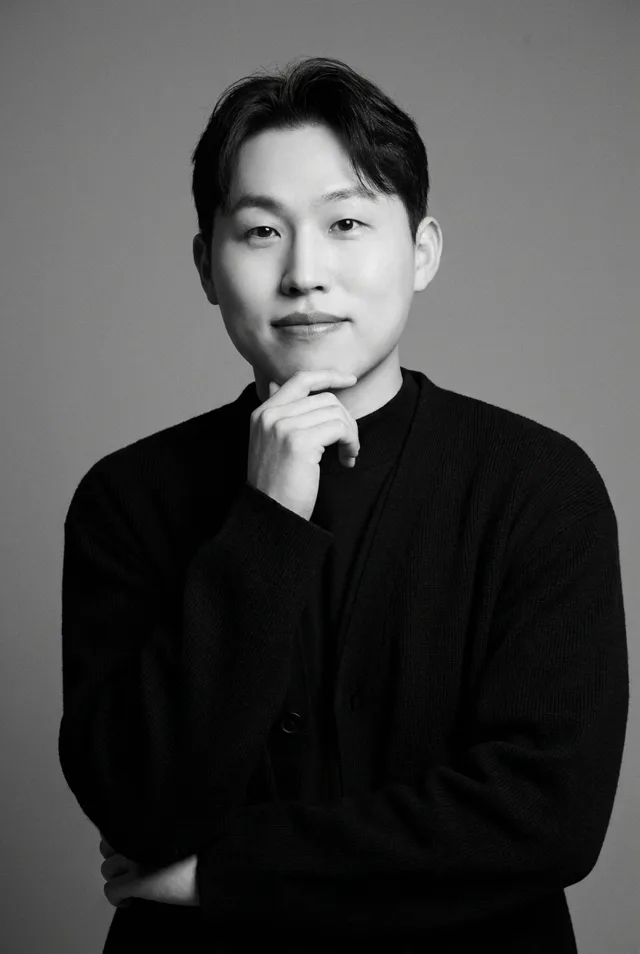
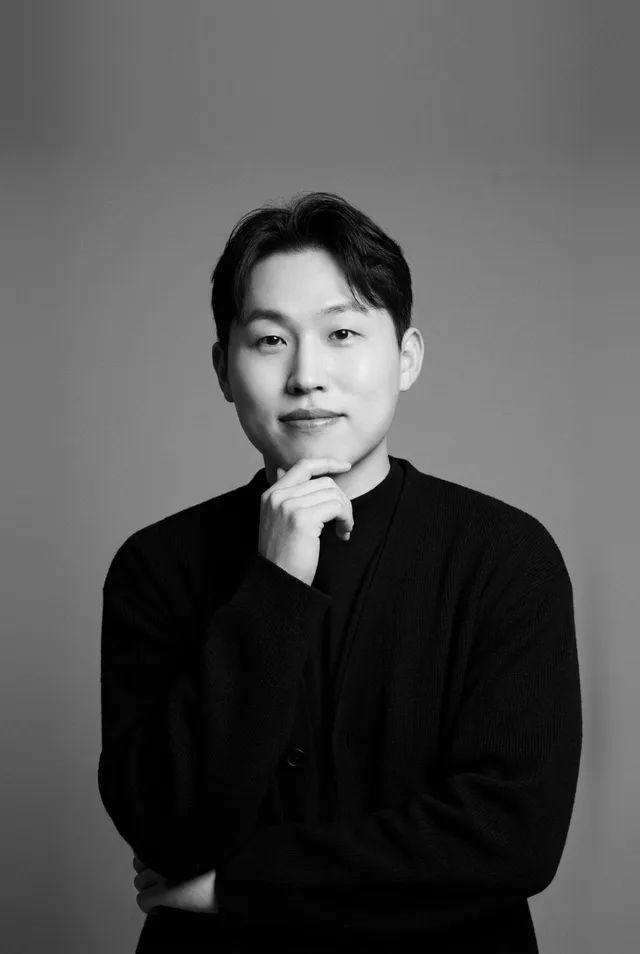
Team page: reorder cards, add roles, smaller CEO portrait, add playbook timeline
Claude-Session: https://claude.ai/code/session_01LdgwYFW44Z9Jz33BD46AYh

Changed region(s): [[0.0938, 0.0608, 1.0, 1.0], [0.0312, 0.1216, 0.0938, 0.152]]

diff --git a/client/src/pages/InformationPages.tsx b/client/src/pages/InformationPages.tsx
@@ -240,14 +240,43 @@ function CompanyPage({ lang }: { lang: Language }) {
   </>;
 }
 
-/* 왼쪽부터 이영균, 전세영, 이승훈(가운데), 이영훈, 장시아 */
+/* 왼쪽부터 이영균, 이영훈, 이승훈(가운데), 전세영, 장시아 */
 const TEAM = [
-  { ko: "이영균", en: "Younggyun Lee", img: "lee-younggyun" },
-  { ko: "전세영", en: "Seyoung Jeon", img: "jeon-seyoung" },
-  { ko: "이승훈", en: "Seunghoon Lee", img: "lee-seunghoon", role: { ko: "설립자", en: "Founder" } },
-  { ko: "이영훈", en: "Younghoon Lee", img: "lee-younghoon" },
-  { ko: "장시아", en: "Sia Jang", img: "jang-sia" },
+  { ko: "이영균", en: "Younggyun Lee", img: "lee-younggyun", role: "Software Engineer" },
+  { ko: "이영훈", en: "Younghoon Lee", img: "lee-younghoon", role: "CTO" },
+  { ko: "이승훈", en: "Seunghoon Lee", img: "lee-seunghoon", role: "CEO" },
+  { ko: "전세영", en: "Seyoung Jeon", img: "jeon-seyoung", role: "AI Engineer" },
+  { ko: "장시아", en: "Sia Jang", img: "jang-sia", role: "Product Designer" },
 ];
+
+const PLAYBOOK = [
+  { title: { ko: "현장 조사", en: "Site survey" }, month: { ko: "1개월차", en: "Month 1" }, text: { ko: "센터 도면과 설비 목록을 받고 현장을 함께 봅니다. 측정 범위, 비교 기준, 성공 기준을 문서로 합의합니다.", en: "We review floor plans and equipment lists and walk the site together. Scope, baseline and success criteria are agreed in writing." }, out: { ko: "측정 계획서, 평가 기준", en: "Measurement plan, evaluation criteria" } },
+  { title: { ko: "진단 측정", en: "Diagnostic measurement" }, month: { ko: "2개월차", en: "Month 2" }, text: { ko: "로봇이 같은 경로를 반복 측정해 현재 상태를 기록합니다. 운영 중인 설정은 건드리지 않습니다.", en: "The robot measures the same route repeatedly to record the current state. Live settings stay untouched." }, out: { ko: "위치별 온도, 기류 지도와 우선 진단 대상", en: "Temperature by location, airflow map and priority targets" } },
+  { title: { ko: "원인 분석과 개선안", en: "Root cause and options" }, month: { ko: "3개월차", en: "Month 3" }, text: { ko: "측정값으로 트윈을 맞추고 열유동 해석으로 원인을 가립니다. 조치 후보를 해석으로 먼저 비교해 위험이 낮은 것부터 제안합니다.", en: "We calibrate the twin with measurements and find causes through thermal-flow analysis. Options are compared in simulation first, lowest risk first." }, out: { ko: "진단 근거, 조치 후보별 예상 효과", en: "Diagnostic evidence, expected effect per option" } },
+  { title: { ko: "적용과 전후 비교", en: "Apply and compare" }, month: { ko: "4개월차", en: "Month 4" }, text: { ko: "운영팀과 합의한 범위만 바꿉니다. 바꾼 뒤 같은 경로로 다시 재서 전후를 비교합니다.", en: "Only the scope agreed with the operations team changes. We re-measure the same route to compare before and after." }, out: { ko: "냉각 상태와 전력 변화 검증 결과", en: "Verified cooling state and power change" } },
+  { title: { ko: "검증 보고와 확산", en: "Report and scale" }, month: { ko: "5개월차", en: "Month 5" }, text: { ko: "결과와 유지 조건을 정리하고, 다른 구역과 센터로 넓힐 범위를 제안합니다.", en: "We document results and conditions to sustain them, and propose how to extend to other zones and sites." }, out: { ko: "검증 보고서, 운영 권고안", en: "Validation report, operating recommendations" } },
+];
+
+const PRINCIPLES = [
+  { title: { ko: "책임은 운영팀에 남기지 않습니다", en: "We share the responsibility" }, text: { ko: "변경 전에 해석으로 영향을 보여드리고, 변경 후 결과를 같이 확인합니다.", en: "We show the impact in simulation before any change, and check the result together after." } },
+  { title: { ko: "주장 대신 전후 수치", en: "Numbers, not claims" }, text: { ko: "모든 제안에는 측정 근거와 조치 후 재측정 결과가 붙습니다.", en: "Every proposal comes with measured evidence and a re-measurement after the change." } },
+  { title: { ko: "작게 시작합니다", en: "Start small" }, text: { ko: "한 구역에서 효과를 확인한 뒤 넓힙니다.", en: "We confirm the effect in one zone before scaling." } },
+];
+
+function Playbook({ lang }: { lang: Language }) {
+  return <section className="info-section info-playbook" id="playbook">
+    <SectionHeading title={lang === "ko" ? "이렇게 일합니다." : "How we work."} description={lang === "ko" ? "도입은 큰 계약부터 시작하지 않습니다. 작은 범위에서 재고, 고치고, 숫자로 확인한 뒤 넓힙니다. HD현대중공업 실증도 같은 순서로 진행합니다." : "Adoption doesn't start with a big contract. We measure, fix and confirm with numbers in a small scope, then expand. Our HD Hyundai Heavy Industries pilot follows the same order."} />
+    <ol className="info-steps">{PLAYBOOK.map((s, i) => <li key={s.title.en} className="info-step">
+      <span className="info-step-num">{String(i + 1).padStart(2, "0")}</span>
+      <div className="info-step-body">
+        <h3>{t(s.title, lang)}<span className="info-step-month">{t(s.month, lang)}</span></h3>
+        <p><Lines>{t(s.text, lang)}</Lines></p>
+        <p className="info-step-out"><strong>{lang === "ko" ? "결과물" : "Deliverables"}</strong>{t(s.out, lang)}</p>
+      </div>
+    </li>)}</ol>
+    <TopicCards items={PRINCIPLES} lang={lang} />
+  </section>;
+}
 
 /** 다섯 장의 카드가 가운데에 겹쳐 있다가, 화면에 들어오면 양옆으로 펼쳐진다 */
 function TeamFan({ lang }: { lang: Language }) {
@@ -263,7 +292,7 @@ function TeamFan({ lang }: { lang: Language }) {
   return <div ref={ref} className={`info-team-fan ${open ? "is-open" : ""}`}>
     {TEAM.map((m, i) => <figure key={m.img} className="info-team-card" style={{ "--d": 2 - i, zIndex: 10 - Math.abs(2 - i) } as React.CSSProperties}>
       <img src={`/images/team-${m.img}.webp`} alt={lang === "ko" ? m.ko : m.en} loading="lazy" />
-      <figcaption><strong>{lang === "ko" ? m.ko : m.en}</strong>{m.role && <span>{m.role[lang]}</span>}</figcaption>
+      <figcaption><strong>{lang === "ko" ? m.ko : m.en}</strong><span>{m.role}</span></figcaption>
     </figure>)}
   </div>;
 }
@@ -280,6 +309,7 @@ function TeamPage({ lang }: { lang: Language }) {
       <TeamFan lang={lang} />
       <p className="info-team-note"><Lines>{lang === "ko" ? "데이터센터의 복잡한 문제를 새로운 시선으로 바라봅니다. NULL SPACE는 다양한 분야의 사람들이 함께 질문하고, 실험하고, 만들어가는 팀입니다." : "Looking at complex data center challenges from a new perspective. NULL SPACE is a team where people from different fields question, experiment, and build together."}</Lines></p>
     </section>
+    <Playbook lang={lang} />
     <section className="info-section info-section-soft">
       <SectionHeading title={lang === "ko" ? "질문하고, 검증하며 나아갑니다." : "Question, validate, move forward."} description={lang === "ko" ? "큰 변화는 현장을 이해하는 일에서 시작됩니다." : "Meaningful change starts with understanding the field."} />
       <TopicCards items={working} lang={lang} />

diff --git a/client/src/pages/InformationPages.css b/client/src/pages/InformationPages.css
@@ -181,3 +181,17 @@
   .info-page .info-team-card { flex: 0 0 62%; scroll-snap-align: center; transform: none !important; }
 }
 @media (prefers-reduced-motion: reduce) { .info-page .info-team-card { transition: none; } }
+
+/* Playbook timeline: numbered steps on a thin rail, lime markers. */
+.info-page .info-steps { list-style: none; margin: 0 0 64px; padding: 0; position: relative; max-width: 860px; }
+.info-page .info-steps::before { content: ""; position: absolute; left: 17px; top: 18px; bottom: 18px; width: 1px; background: var(--info-line); }
+.info-page .info-step { position: relative; display: grid; grid-template-columns: 36px minmax(0, 1fr); gap: 28px; padding: 0 0 48px; }
+.info-page .info-step:last-child { padding-bottom: 0; }
+.info-page .info-step-num { position: relative; z-index: 1; display: grid; place-items: center; width: 36px; height: 36px; border-radius: 50%; background: var(--lime, #c6ff3d); color: #090909; font-size: 13px; font-weight: 700; letter-spacing: -.02em; }
+.info-page .info-step-body h3 { display: flex; align-items: baseline; gap: 14px; margin: 4px 0 0; font-size: clamp(20px, 1.6vw, 24px); font-weight: 500; letter-spacing: -.03em; }
+.info-page .info-step-month { color: #8a8a8a; font-size: 13px; font-weight: 400; letter-spacing: 0; }
+.info-page .info-step-body > p { margin-top: 12px; color: #d6d6d6; font-size: 16px; line-height: 1.8; }
+.info-page .info-step-body > p.info-step-out { margin-top: 10px; color: var(--info-muted); font-size: 14px; }
+.info-page .info-step-out strong { margin-right: 10px; color: var(--lime, #c6ff3d); font-weight: 600; }
+.info-page .info-playbook .info-topic-card { min-height: 0; }
+@media (max-width: 760px) { .info-page .info-step { gap: 18px; padding-bottom: 36px; } .info-page .info-step-body h3 { flex-wrap: wrap; gap: 4px 12px; } }
